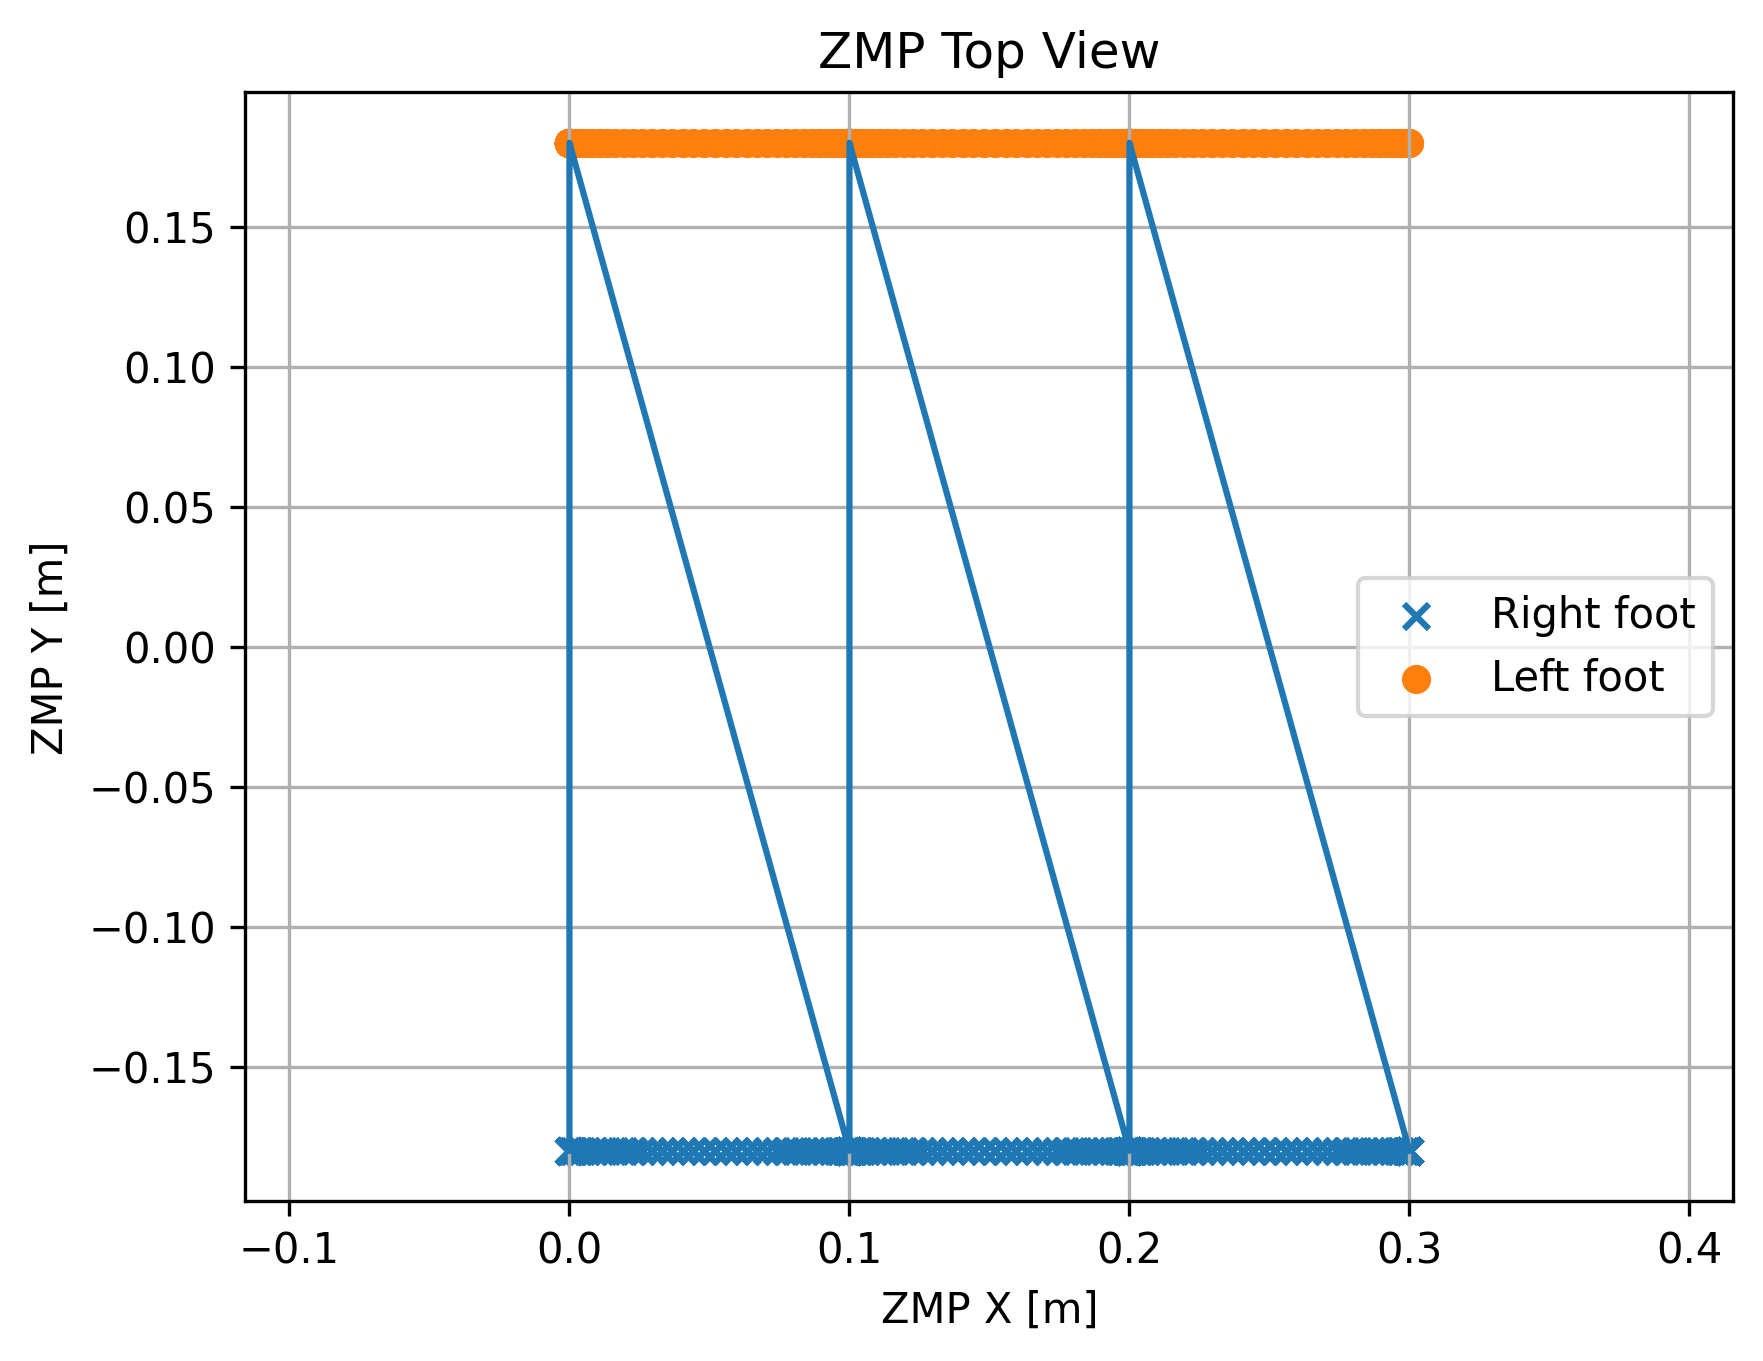
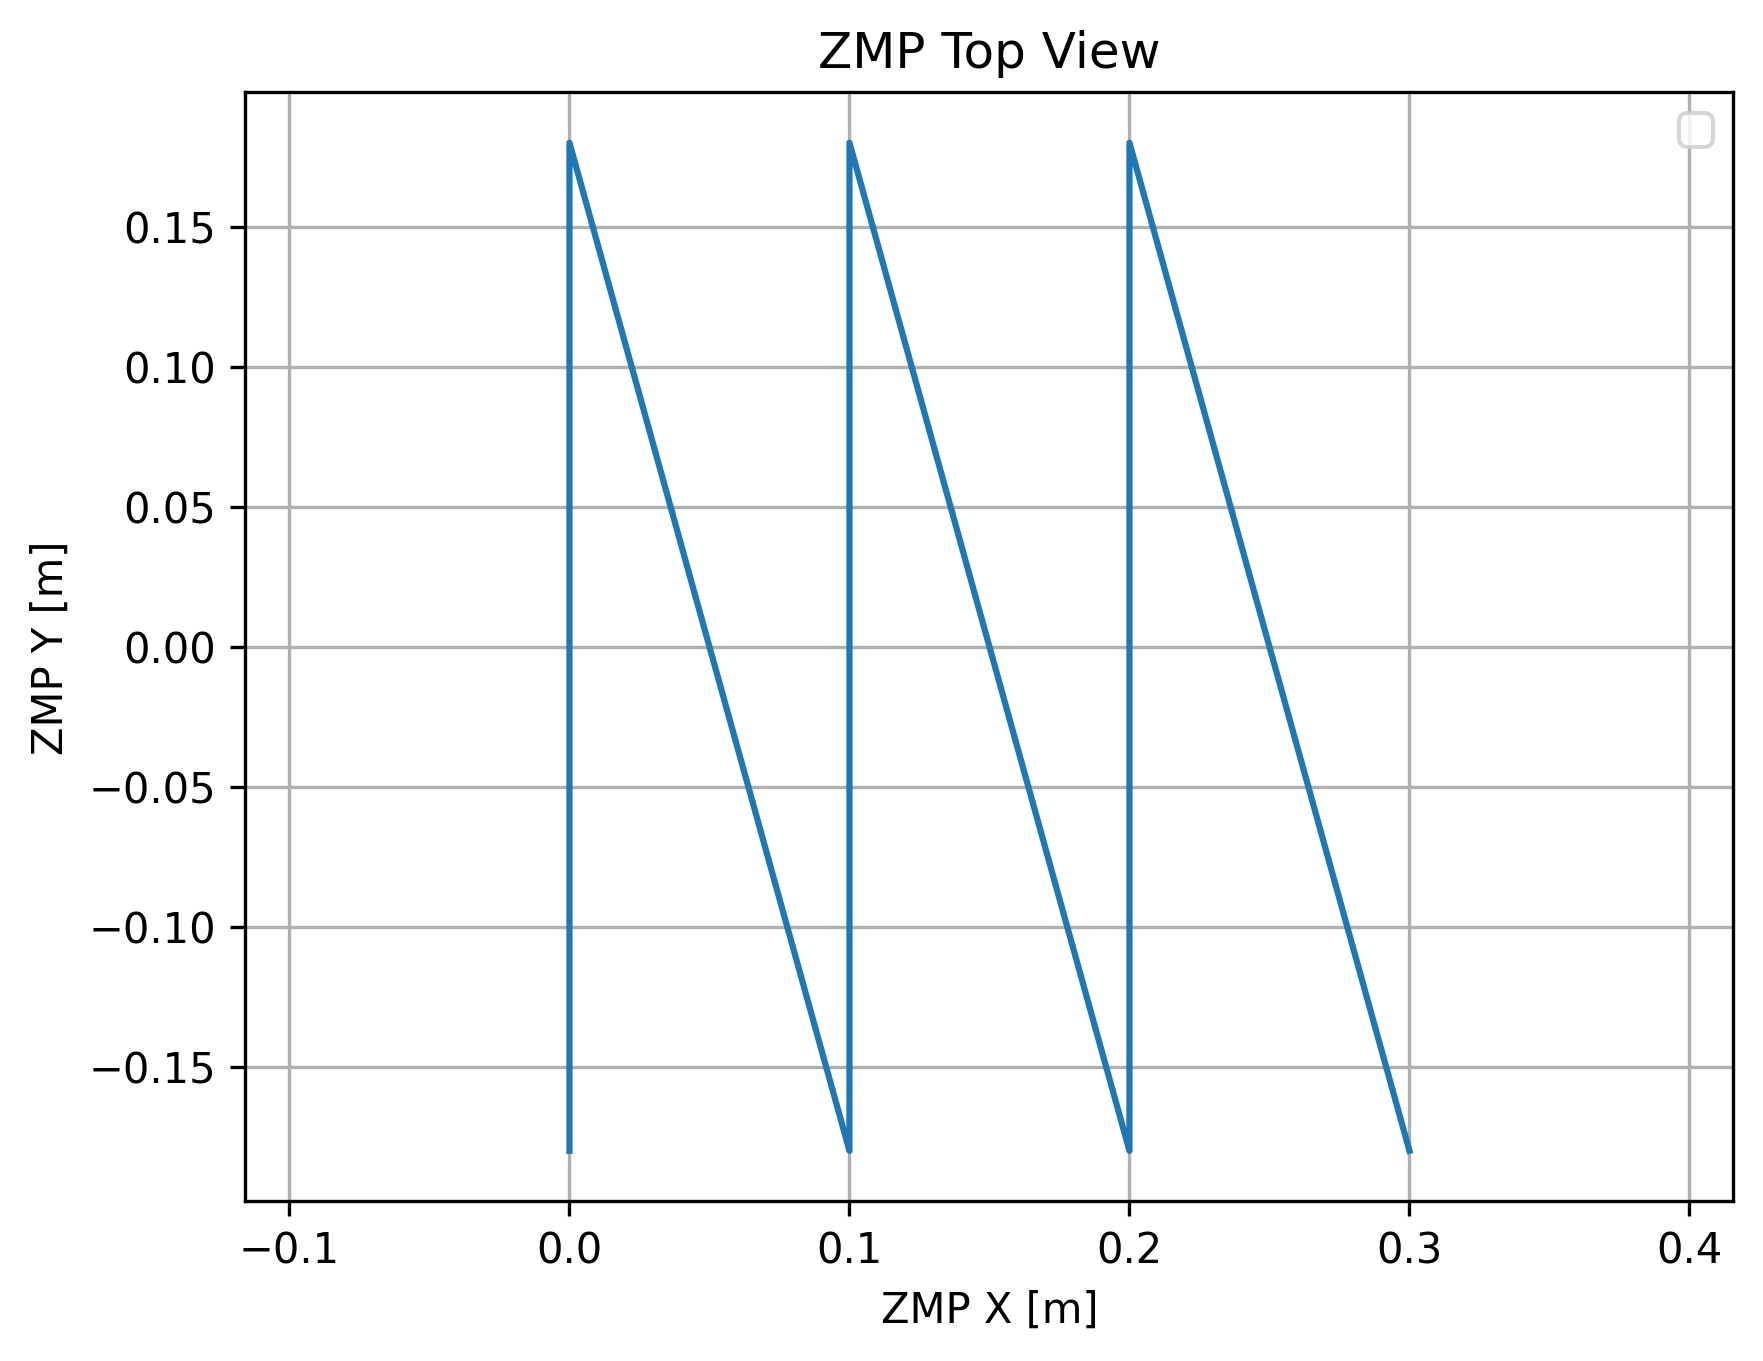
.

diff --git a/dynamics/zmp.py b/dynamics/zmp.py
@@ -221,6 +221,7 @@ class ZMPPlanner:
             "left":  init_left.copy(),
         }
 
+        prev_support = None  
         for s_idx, step in enumerate(steps):
             swing   = step.side
             support = "left" if swing == "right" else "right"
@@ -230,6 +231,13 @@ class ZMPPlanner:
             t1 = t0 + self._n_total
             t_ds_end = t0 + self._n_ds
 
+             # ✅ Determine previous support foot position
+            if prev_support is None:
+            # First step → assume initial support foot
+                prev_support_pos = cur[support].copy()
+            else:
+                prev_support_pos = prev_support.copy()
+            
             # ── ZMP reference ─────────────────────────────────────────
             self._fill_zmp(
                 zmp_x, zmp_y,
@@ -253,6 +261,7 @@ class ZMPPlanner:
                       f"support @ ({cur[support][0]:.3f}, {cur[support][1]:.3f})")
 
             # Advance current swing foot to its new position
+            prev_support = cur[support].copy()
             cur[swing] = target.copy()
 
         data = ZMPData(
@@ -278,7 +287,7 @@ class ZMPPlanner:
                   t0:       int,
                   t_ds_end: int,
                   t1:       int,
-                  p_swing:  np.ndarray,
+                  p_prev_support:  np.ndarray,
                   p_support:np.ndarray,
                   ) -> None:
         """
@@ -293,8 +302,8 @@ class ZMPPlanner:
         if n_ds > 0:
             # Linear interpolation  alpha ∈ [0, 1]
             alpha = np.linspace(0.0, 1.0, n_ds)
-            zmp_x[t0:t_ds_end] = (1.0 - alpha) * p_swing[0] + alpha * p_support[0]
-            zmp_y[t0:t_ds_end] = (1.0 - alpha) * p_swing[1] + alpha * p_support[1]
+            zmp_x[t0:t_ds_end] = (1.0 - alpha) * p_prev_support[0] + alpha * p_support[0]
+            zmp_y[t0:t_ds_end] = (1.0 - alpha) * p_prev_support[1] + alpha * p_support[1]
 
         # SS: fixed over support foot
         zmp_x[t_ds_end:t1] = p_support[0]
@@ -484,13 +493,6 @@ class ZMPPlanner:
         plt.figure()
         plt.plot(data.zmp_x, data.zmp_y)
 
-    # Plot footsteps (VERY IMPORTANT for debugging)
-        right = data.foot_pos["right"]
-        left  = data.foot_pos["left"]
-
-        plt.scatter(right[:, 0], right[:, 1], marker='x', label="Right foot")
-        plt.scatter(left[:, 0],  left[:, 1],  marker='o', label="Left foot")
-
         plt.title("ZMP Top View")
         plt.xlabel("ZMP X [m]")
         plt.ylabel("ZMP Y [m]")
@@ -512,7 +514,7 @@ class ZMPPlanner:
         image_path = f"visualization/plots/dynamics/zmp_trajectoire/CONTACT_PHASE.png"
         plt.savefig(image_path,dpi=300,bbox_inches='tight')
 
-        if plt.show:
+        if show:
             plt.show()
         
 
